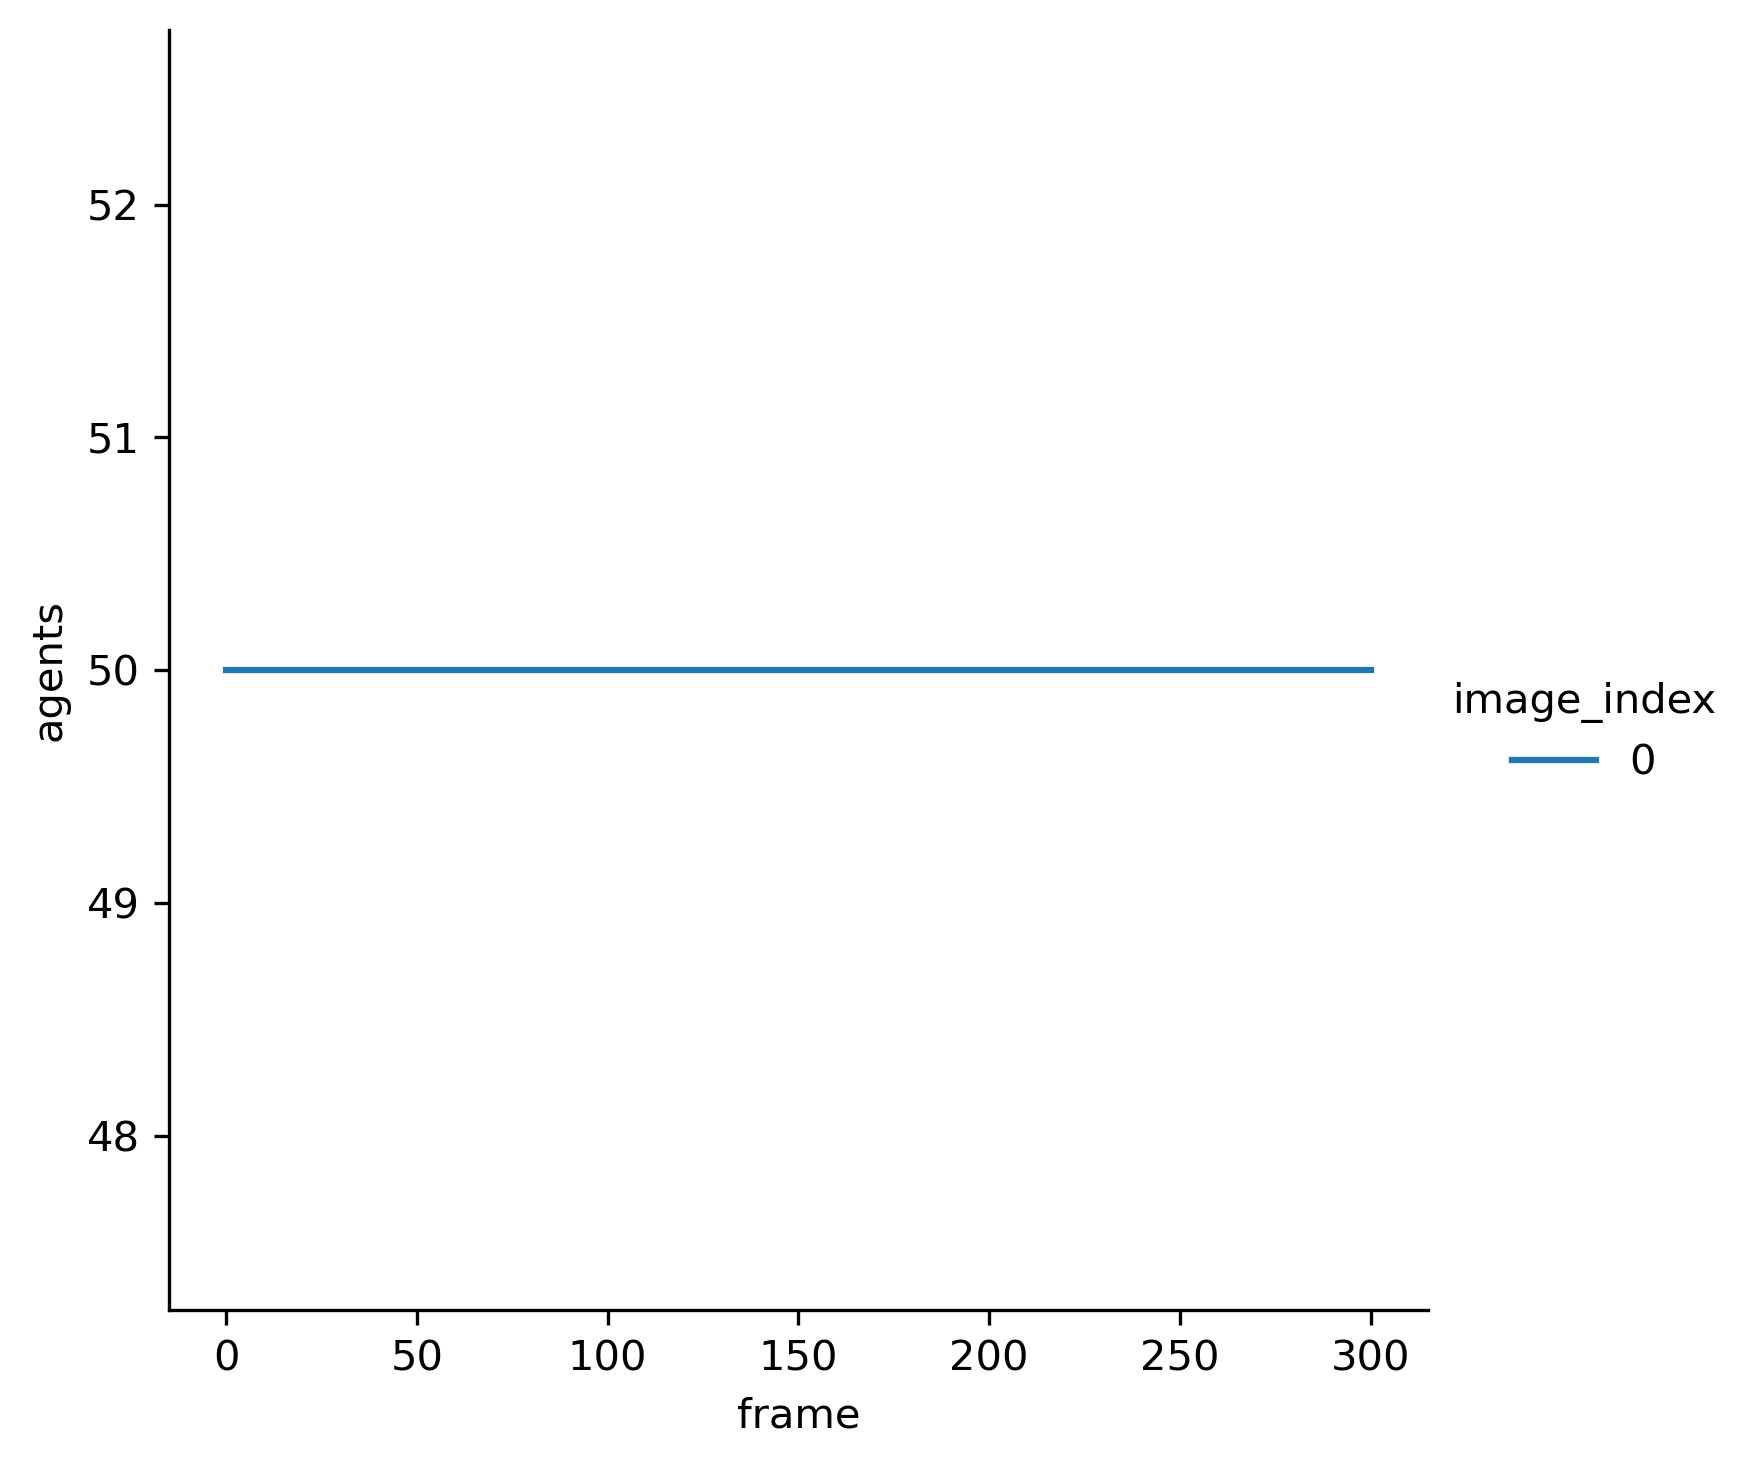
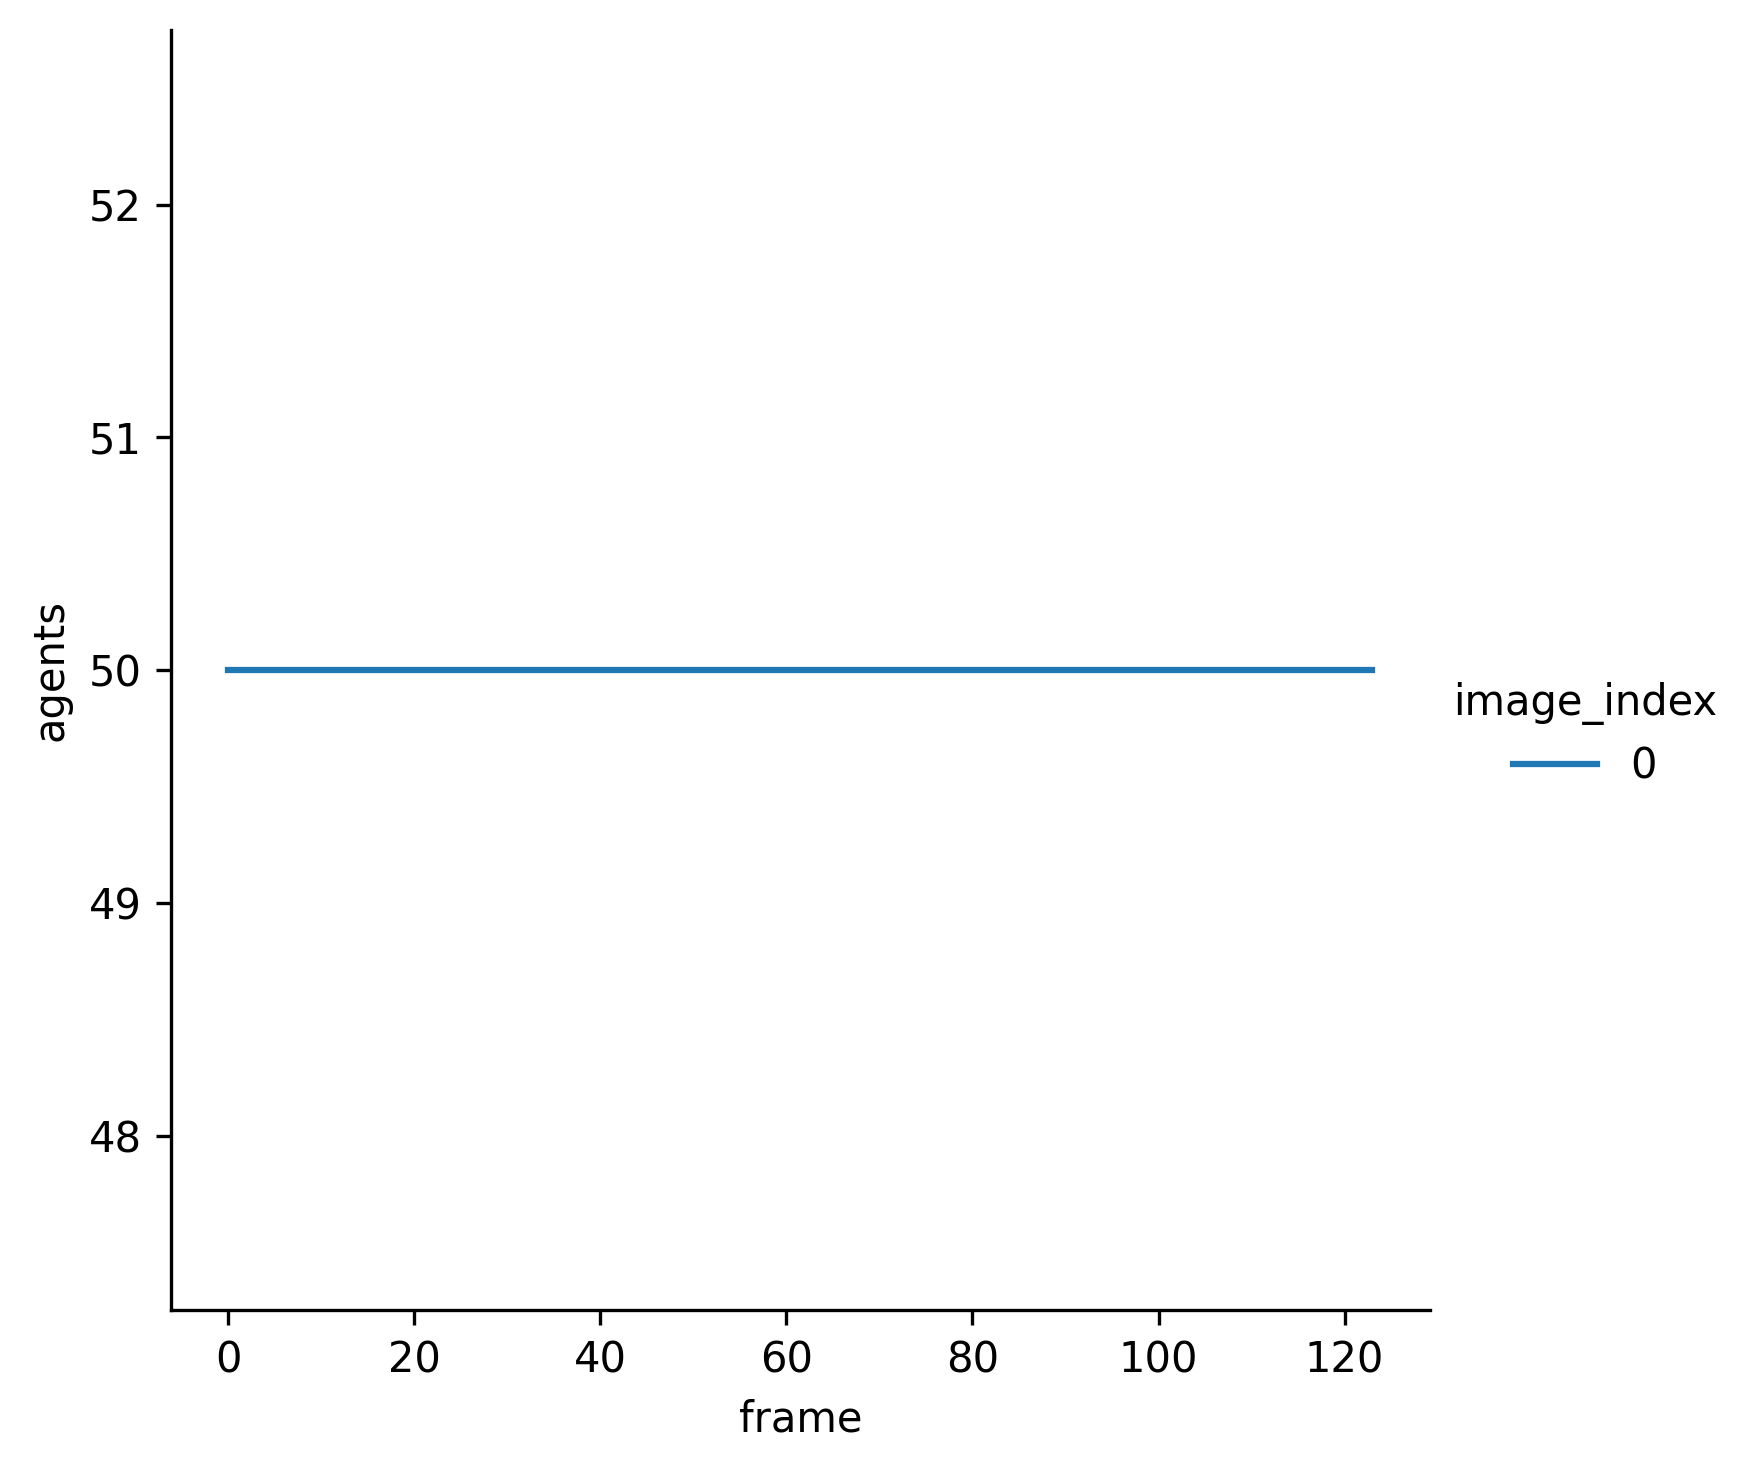
merged

Changed region(s): [[0.0, 0.0307, 0.8009, 0.9823], [0.8317, 0.4604, 0.8933, 0.5218]]

diff --git a/flocking.py b/flocking.py
@@ -203,8 +203,16 @@ data_frame = (
             duration= 5*60,
             seed=1,
             fps_limit=30
-=======
-            radius=50,
-            duration= 5*60,
-            seed=1,
-            fps_limit= 0
+        )
+    )
+.batch_spawn_agents(50, Bird, images=["images/bird.png"])
+.run()
+.snapshots
+.groupby(["frame", "image_index"])
+.agg(pl.count("id").alias("agents"))
+.sort(["frame", "image_index"])
+
+)
+print(data_frame)
+plot = sns.relplot(x=data_frame["frame"], y=data_frame["agents"], hue=data_frame["image_index"], kind="line")
+plot.savefig("agent.png", dpi=300)
